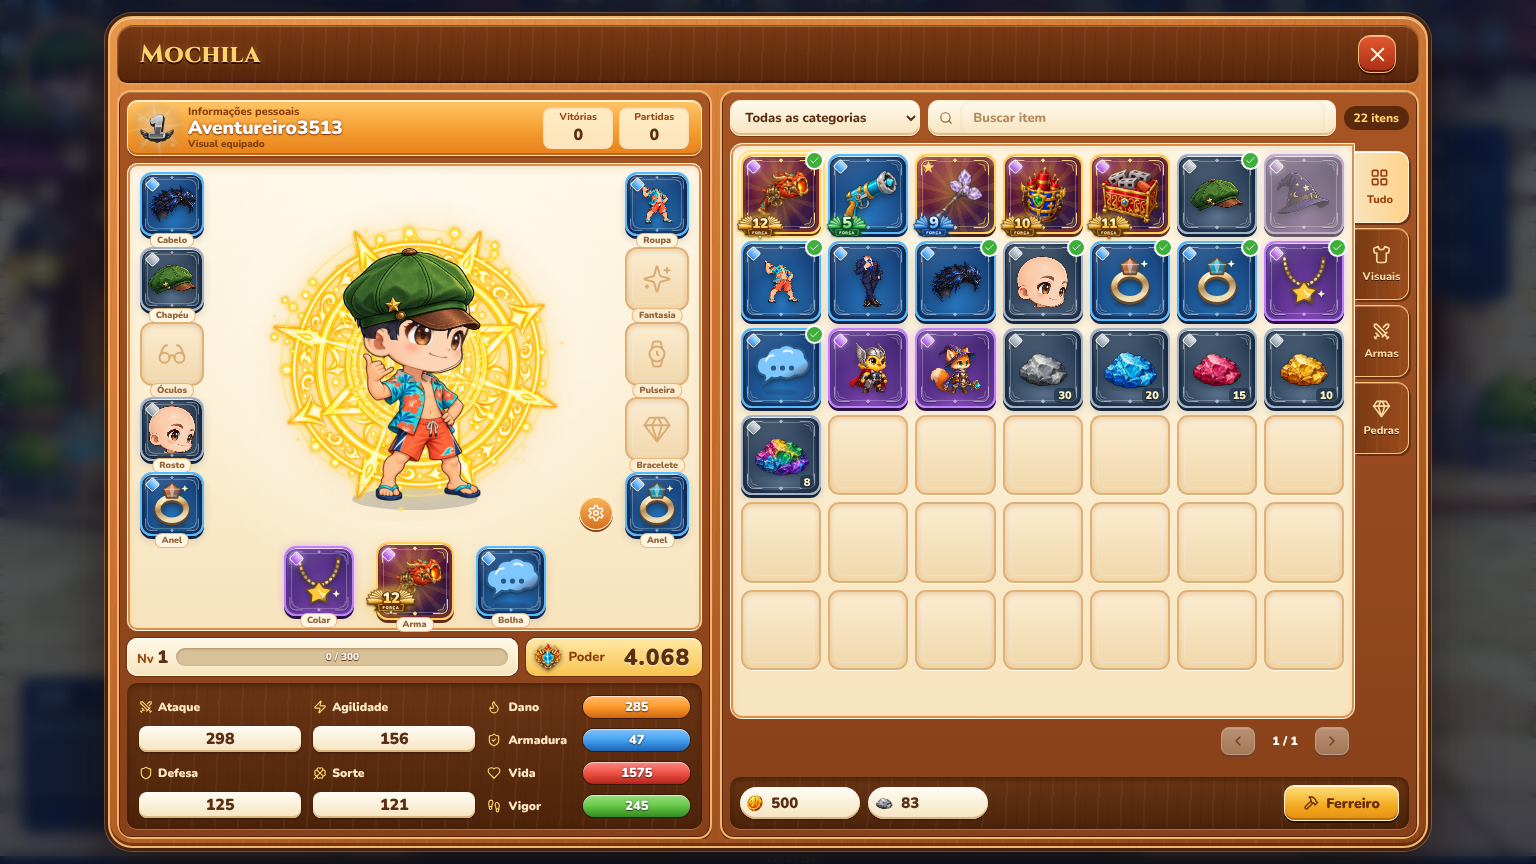
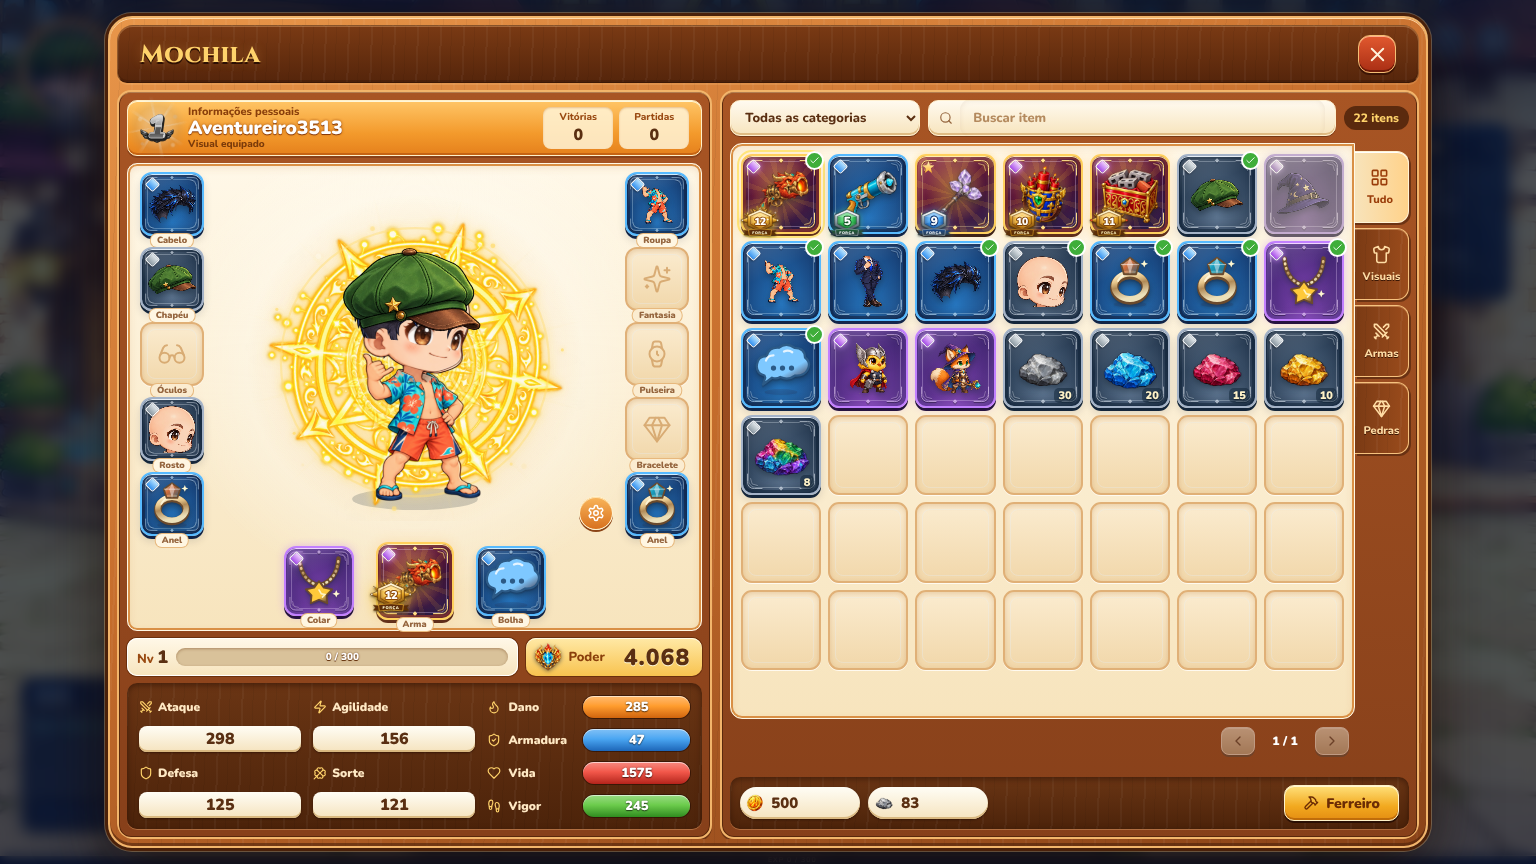
Mochila: selo de força vira brasão de joia lapidada
Troca as asas por uma joia lapidada em moldura de metal: cinza até +4,
verde +5, azul +9, dourado com coroa +10, pontas e rubis +11 e explosão
de luz com halo e brilhos +12.

Claude-Session: https://claude.ai/code/session_01T3DnNoGPBrqeA1x5S2iqZd

diff --git a/src/components/UpgradeTag.tsx b/src/components/UpgradeTag.tsx
@@ -1,46 +1,64 @@
 import {useId} from 'react';
 import './UpgradeTag.css';
 
-/** Winged strengthening crest for weapon cards: big number, feathered wings and a "FORÇA" ribbon.
- *  0–4 silver gray, 5–8 green, 9 blue, 10 gold, 11 gold with ruby, 12 gold with the largest wings, halo and sparkles. */
+/** Jewel crest for weapon cards: a cut gem in a metal frame with the number and a "FORÇA" ribbon.
+ *  0–4 gray, 5–8 green, 9 blue, 10 gold with crown, 11 adds side spikes and a ruby, 12 adds a light burst, halo and sparkles. */
 const TIERS={
- 0:{light:'#f6f8fa',mid:'#a7b0ba',dark:'#353c45',ribbon:'#4c5662',feathers:3,span:1},
- 5:{light:'#e6ffd8',mid:'#3fcf5c',dark:'#0f4a20',ribbon:'#1b6630',feathers:4,span:1.05},
- 9:{light:'#e2f4ff',mid:'#3a9cf0',dark:'#0e316b',ribbon:'#174d98',feathers:4,span:1.1},
- 10:{light:'#fff7c6',mid:'#f2b52c',dark:'#6a3905',ribbon:'#5b2d0f',feathers:5,span:1.15},
- 11:{light:'#fff7c6',mid:'#f2b52c',dark:'#6a3905',ribbon:'#5b2d0f',feathers:5,span:1.2},
- 12:{light:'#fffbe0',mid:'#ffc23a',dark:'#6a3604',ribbon:'#5b2a0c',feathers:6,span:1.28}
+ 0:{gem:['#eef1f4','#9aa4ae','#424a54'],rim:['#d9dee3','#7c858f','#2c3239'],ribbon:'#4a535d'},
+ 5:{gem:['#d9ffd0','#36c95a','#0d4a20'],rim:['#f2f6f8','#9fb0b8','#34424a'],ribbon:'#17602c'},
+ 9:{gem:['#dcf2ff','#3a9cf0','#0d2f6a'],rim:['#f2f6f8','#9fb0b8','#34424a'],ribbon:'#164a94'},
+ 10:{gem:['#fff6c8','#f5b52a','#7a3d04'],rim:['#fff3b8','#d99a24','#5e3004'],ribbon:'#5b2d0f'},
+ 11:{gem:['#fff6c8','#f5b52a','#7a3d04'],rim:['#fff3b8','#d99a24','#5e3004'],ribbon:'#5b2d0f'},
+ 12:{gem:['#fffbe2','#ffc83c','#8a4504'],rim:['#fff8d0','#ecad2c','#5e3004'],ribbon:'#5b2a0c'}
 } as const;
 export function upgradeTier(level:number):keyof typeof TIERS {return level>=12?12:level>=11?11:level>=10?10:level>=9?9:level>=5?5:0;}
 
-const FEATHER='M0 0Q-13-9-34-7Q-27-2-33 3Q-15 7 0 5Z';
+const OUTER='M60 4 92 18 92 46 60 62 28 46 28 18Z';
+const INNER='M60 11 85 22 85 42 60 55 35 42 35 22Z';
+const FONT="Nunito,'Trebuchet MS',sans-serif";
 
 export function UpgradeTag({level,size=46,className=''}:{level:number;size?:number;className?:string}){
- const id=useId().replace(/:/g,''),tier=upgradeTier(level),t=TIERS[tier];
- const fill=`url(#${id}f)`,label=level>=10?36:42;
- const wing=<g fill={fill} stroke={t.dark} strokeWidth="1.3" strokeLinejoin="round">
-  {Array.from({length:t.feathers},(_,i)=>{const a=-4+i*(66/(t.feathers-1||1)),s=t.span*(1-i*.06);
-   return <path key={i} d={FEATHER} transform={`translate(44 48) rotate(${a}) scale(${s})`}/>;}).reverse()}
- </g>;
+ const id=useId().replace(/:/g,''),tier=upgradeTier(level),t=TIERS[tier],u=(k:string)=>`url(#${id}${k})`;
+ const fontSize=level>=10?27:31;
  return <svg className={`upgrade-tag upgrade-tag-${tier} ${className}`} viewBox="0 0 120 80" width={size} height={size*80/120} role="img" aria-label={`Força +${level}`}>
   <defs>
-   <linearGradient id={`${id}f`} x1="0" y1="0" x2="0" y2="1"><stop stopColor={t.light}/><stop offset=".5" stopColor={t.mid}/><stop offset="1" stopColor={t.dark}/></linearGradient>
-   <linearGradient id={`${id}n`} x1="0" y1="0" x2="0" y2="1"><stop stopColor="#fff"/><stop offset=".35" stopColor={t.light}/><stop offset=".75" stopColor={t.mid}/></linearGradient>
-   <linearGradient id={`${id}r`} x1="0" y1="0" x2="0" y2="1"><stop stopColor={t.ribbon}/><stop offset="1" stopColor={t.dark}/></linearGradient>
-   <radialGradient id={`${id}h`}><stop stopColor={t.light} stopOpacity=".9"/><stop offset=".55" stopColor={t.mid} stopOpacity=".35"/><stop offset="1" stopColor={t.mid} stopOpacity="0"/></radialGradient>
+   <linearGradient id={`${id}m`} x1="0" y1="0" x2="0" y2="1"><stop stopColor={t.rim[0]}/><stop offset=".45" stopColor={t.rim[1]}/><stop offset="1" stopColor={t.rim[2]}/></linearGradient>
+   <radialGradient id={`${id}g`} cx=".5" cy=".38" r=".7"><stop stopColor={t.gem[0]}/><stop offset=".45" stopColor={t.gem[1]}/><stop offset="1" stopColor={t.gem[2]}/></radialGradient>
+   <linearGradient id={`${id}n`} x1="0" y1="0" x2="0" y2="1"><stop stopColor="#fff"/><stop offset=".55" stopColor="#fff"/><stop offset="1" stopColor={t.gem[0]}/></linearGradient>
+   <linearGradient id={`${id}r`} x1="0" y1="0" x2="0" y2="1"><stop stopColor={t.ribbon}/><stop offset="1" stopColor={t.rim[2]}/></linearGradient>
+   <radialGradient id={`${id}h`}><stop stopColor={t.gem[0]} stopOpacity=".95"/><stop offset=".5" stopColor={t.gem[1]} stopOpacity=".35"/><stop offset="1" stopColor={t.gem[1]} stopOpacity="0"/></radialGradient>
   </defs>
-  {tier>=10&&<ellipse className="upgrade-tag-halo" cx="60" cy="38" rx={tier===12?56:44} ry={tier===12?34:26} fill={`url(#${id}h)`}/>}
-  <g className="upgrade-tag-wing">{wing}</g>
-  <g className="upgrade-tag-wing" transform="translate(120 0) scale(-1 1)">{wing}</g>
-  {/* ribbon: folded tails behind, band in front */}
-  <path d="M32 60 20 58l6 6-6 6 16 0Z M88 60l12-2-6 6 6 6-16 0Z" fill={`url(#${id}r)`} stroke={t.dark} strokeWidth="1.2" strokeLinejoin="round"/>
-  <path d="M30 57Q60 52 90 57L88 72Q60 67 32 72Z" fill={`url(#${id}r)`} stroke={t.mid} strokeWidth="1.6" strokeLinejoin="round"/>
-  <text x="60" y="68" textAnchor="middle" fontFamily="Nunito,'Trebuchet MS',sans-serif" fontSize="9.5" fontWeight="900" letterSpacing="1.4" fill={t.light}>FORÇA</text>
-  {tier>=11&&<path d="m60 71 4 4-4 5-4-5Z" fill={tier===12?'#fffbe0':'#ff4a3a'} stroke={t.dark} strokeWidth="1"/>}
-  <text x="60" y="53" textAnchor="middle" fontFamily="Nunito,'Trebuchet MS',sans-serif" fontSize={label} fontWeight="900" letterSpacing="-1" fill={t.dark} stroke={t.dark} strokeWidth="8" strokeLinejoin="round" transform="translate(0 2)">{level}</text>
-  <text x="60" y="53" textAnchor="middle" fontFamily="Nunito,'Trebuchet MS',sans-serif" fontSize={label} fontWeight="900" letterSpacing="-1" fill={`url(#${id}n)`} stroke={t.dark} strokeWidth="4" paintOrder="stroke" strokeLinejoin="round">{level}</text>
+  {tier===12&&<ellipse className="upgrade-tag-halo" cx="60" cy="34" rx="58" ry="38" fill={u('h')} opacity=".6"/>}
+  {tier===12&&<g className="upgrade-tag-burst" fill={t.gem[1]} opacity=".7">{Array.from({length:24},(_,i)=><path key={i} d={`M60 33 ${i%2?59.4:58.8} ${i%2?4:-6}h${i%2?1.2:2.4}Z`} transform={`rotate(${i*15} 60 33)`}/>)}</g>}
+  {tier>=9&&tier<12&&<ellipse cx="60" cy="34" rx="40" ry="30" fill={u('h')} opacity=".7"/>}
+  {/* side spikes from +11 */}
+  {tier>=11&&<g fill={u('m')} stroke={t.rim[2]} strokeWidth="1.2" strokeLinejoin="round">
+   <path d="M29 24 10 32 29 40Z"/><path d="M91 24 110 32 91 40Z"/>
+   <path d="m30 20-12-7 9 11Z"/><path d="m90 20 12-7-9 11Z"/>
+  </g>}
+  {tier>=11&&<g fill={tier===12?'#fffbe2':'#ff4a3a'} stroke={t.rim[2]} strokeWidth="1"><circle cx="14" cy="32" r="2.6"/><circle cx="106" cy="32" r="2.6"/></g>}
+  {/* crown from +10 */}
+  {tier>=10&&<g>
+   <path d="M44 14 41 1 51 7 60-1 69 7 79 1 76 14Z" fill={u('m')} stroke={t.rim[2]} strokeWidth="1.3" strokeLinejoin="round"/>
+   <circle cx="60" cy="5" r="2.4" fill={tier===11?'#ff4a3a':'#fff'} stroke={t.rim[2]} strokeWidth=".8"/>
+   <circle cx="47" cy="9" r="1.5" fill="#fff"/><circle cx="73" cy="9" r="1.5" fill="#fff"/>
+  </g>}
+  {/* frame + cut gem */}
+  <path d={OUTER} fill={u('m')} stroke={t.rim[2]} strokeWidth="1.6" strokeLinejoin="round"/>
+  <path d="M60 6 90 19 86 21 60 9.5 34 21 30 19Z" fill="#fff" opacity=".55"/>
+  <path d={INNER} fill={u('g')} stroke={t.rim[2]} strokeWidth="1.2" strokeLinejoin="round"/>
+  <g fill="#fff">
+   <path d="M60 11 85 22 72 25 60 17 48 25 35 22Z" opacity=".38"/>
+   <path d="M35 22 48 25 48 38 35 42Z" opacity=".16"/>
+   <path d="M60 55 72 39 85 42Z" opacity=".1"/>
+  </g>
+  <text x="60" y="44" textAnchor="middle" fontFamily={FONT} fontSize={fontSize} fontWeight="900" letterSpacing="-1" fill={u('n')} stroke={t.gem[2]} strokeWidth="5" paintOrder="stroke" strokeLinejoin="round">{level}</text>
+  {/* ribbon */}
+  <path d="M30 60 18 58l5 6-5 6 16 0Z M90 60l12-2-5 6 5 6-16 0Z" fill={u('r')} stroke={t.rim[2]} strokeWidth="1.2" strokeLinejoin="round"/>
+  <path d="M30 57Q60 52 90 57L88 72Q60 67 32 72Z" fill={u('r')} stroke={t.rim[1]} strokeWidth="1.6" strokeLinejoin="round"/>
+  <text x="60" y="68" textAnchor="middle" fontFamily={FONT} fontSize="9.5" fontWeight="900" letterSpacing="1.4" fill={t.rim[0]}>FORÇA</text>
   {tier===12&&<g className="upgrade-tag-sparkles" fill="#fff">
-   <path d="m22 14 1.6 4 4 1.6-4 1.6-1.6 4-1.6-4-4-1.6 4-1.6Z"/><path d="m98 10 1.3 3.2 3.2 1.3-3.2 1.3-1.3 3.2-1.3-3.2-3.2-1.3 3.2-1.3Z"/><path d="m84 44 1 2.5 2.5 1-2.5 1-1 2.5-1-2.5-2.5-1 2.5-1Z"/>
+   <path d="m20 10 1.6 4 4 1.6-4 1.6-1.6 4-1.6-4-4-1.6 4-1.6Z"/><path d="m100 8 1.3 3.2 3.2 1.3-3.2 1.3-1.3 3.2-1.3-3.2-3.2-1.3 3.2-1.3Z"/><path d="m80 26 1 2.5 2.5 1-2.5 1-1 2.5-1-2.5-2.5-1 2.5-1Z"/>
   </g>}
  </svg>;
 }

diff --git a/src/components/UpgradeTag.css b/src/components/UpgradeTag.css
@@ -3,10 +3,12 @@
 .upgrade-tag-9 { filter: drop-shadow(0 1px 1px #000a) drop-shadow(0 0 4px #6cc4ff88); }
 .upgrade-tag-10, .upgrade-tag-11 { filter: drop-shadow(0 1px 1px #000a) drop-shadow(0 0 4px #ffd24a99); }
 .upgrade-tag-12 { filter: drop-shadow(0 1px 1px #000a) drop-shadow(0 0 6px #ffd24acc); }
+.upgrade-tag-12 .upgrade-tag-burst { transform-origin: 60px 33px; transform-box: view-box; animation: upgrade-tag-spin 12s linear infinite; }
 .upgrade-tag-12 .upgrade-tag-halo { transform-origin: 60px 38px; transform-box: view-box; animation: upgrade-tag-pulse 1.8s ease-in-out infinite alternate; }
 .upgrade-tag-12 .upgrade-tag-sparkles path { transform-box: fill-box; transform-origin: center; animation: upgrade-tag-twinkle 1.4s ease-in-out infinite alternate; }
 .upgrade-tag-12 .upgrade-tag-sparkles path:nth-child(2) { animation-delay: .5s; }
 .upgrade-tag-12 .upgrade-tag-sparkles path:nth-child(3) { animation-delay: .9s; }
+@keyframes upgrade-tag-spin { to { transform: rotate(360deg); } }
 @keyframes upgrade-tag-pulse { from { opacity: .55; transform: scale(.94); } to { opacity: 1; transform: scale(1.04); } }
 @keyframes upgrade-tag-twinkle { from { opacity: .2; transform: scale(.5); } to { opacity: 1; transform: scale(1.1); } }
 @media (prefers-reduced-motion: reduce) { .upgrade-tag * { animation: none !important; } }

diff --git a/docs/implementation-status.md b/docs/implementation-status.md
@@ -6,7 +6,7 @@
 - Loja: Anel da Brasa (200), Anel da Maré (160), Colar Estelar (320) e Bolha Nuvem (150), com ícones SVG próprios. Anel e colar entram na composição.
 - Cards por classe: Comum, Normal (uncommon/rare), Épico e Lendário (`data-tier`), com gema no canto, brilho no épico e pulso no lendário. O ícone de sexo saiu da grade e só aparece no hover.
 - Hover refeito (`bag-tooltip`): cabeçalho com carta, tipo e sexo; faixa "Classe" com estrelas só para arma, roupa e chapéu (`CLASSED_SLOTS`); atributos em 2 colunas com ícones e diferença ▲/▼ contra o equipado; destruição/ângulo da arma.
-- `UpgradeTag` (SVG) é um brasão com número grande, asas de penas e faixa "FORÇA": até +4 cinza, +5 a +8 verde, +9 azul, +10 dourado, +11 dourado com rubi e +12 dourado com asas maiores, halo pulsante e brilhos. O hover não mostra mais "Equipado".
+- `UpgradeTag` (SVG) é um brasão de joia lapidada em moldura de metal, com o número e a faixa "FORÇA": até +4 cinza, +5 a +8 verde, +9 azul, +10 dourado com coroa, +11 com pontas laterais e rubis, +12 com explosão de luz girando, halo e brilhos. O hover não mostra mais "Equipado".
 - Evidência: `npm run check`, `npm test` (233), build, `test:mobile:browser` e `test:immediate:browser` passando; `test:customization:browser` para no mesmo passo "Treinar" de `main`; `verify:cosmetics` igual a `main`. Prévia em `docs/previews/backpack.png`.
 
 ## Mochila no padrão DDTank — 17/10/2026
